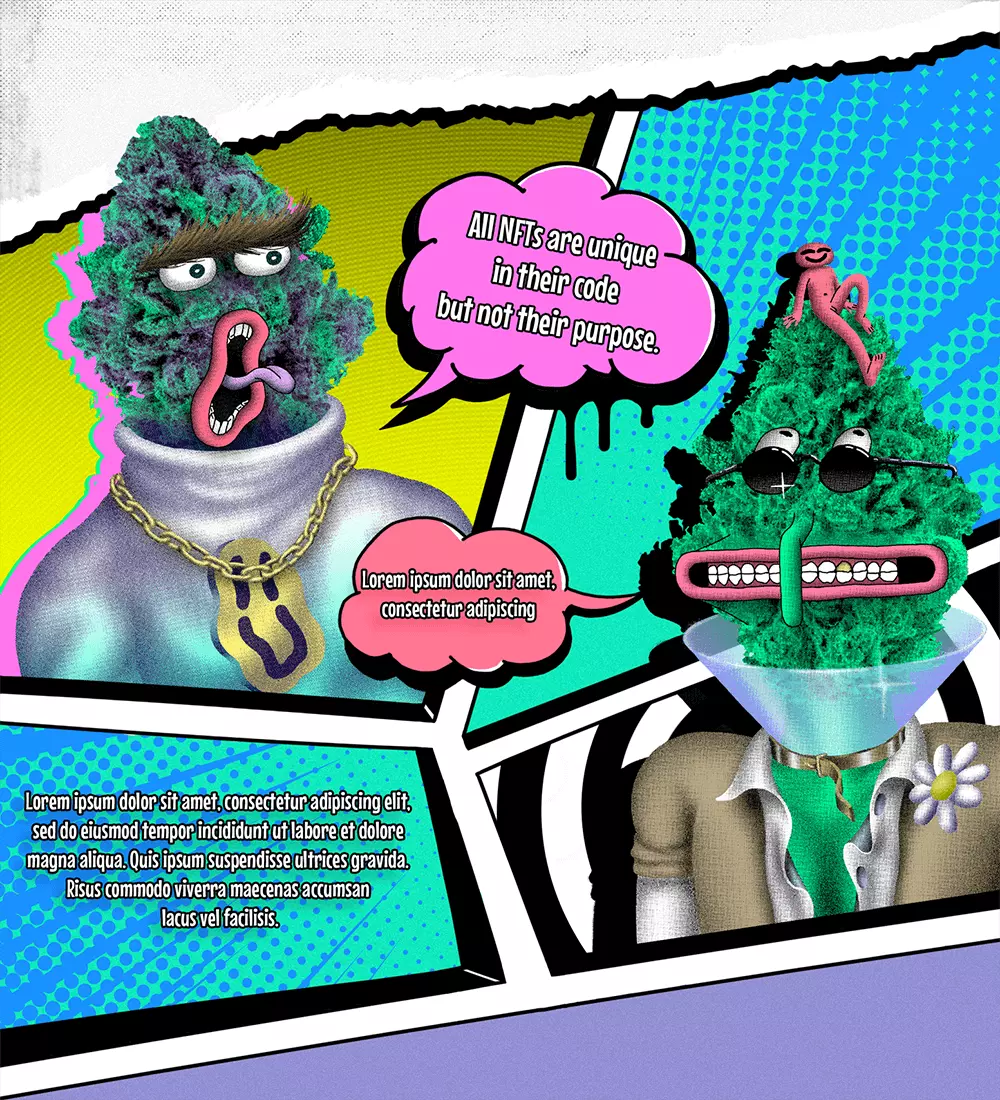
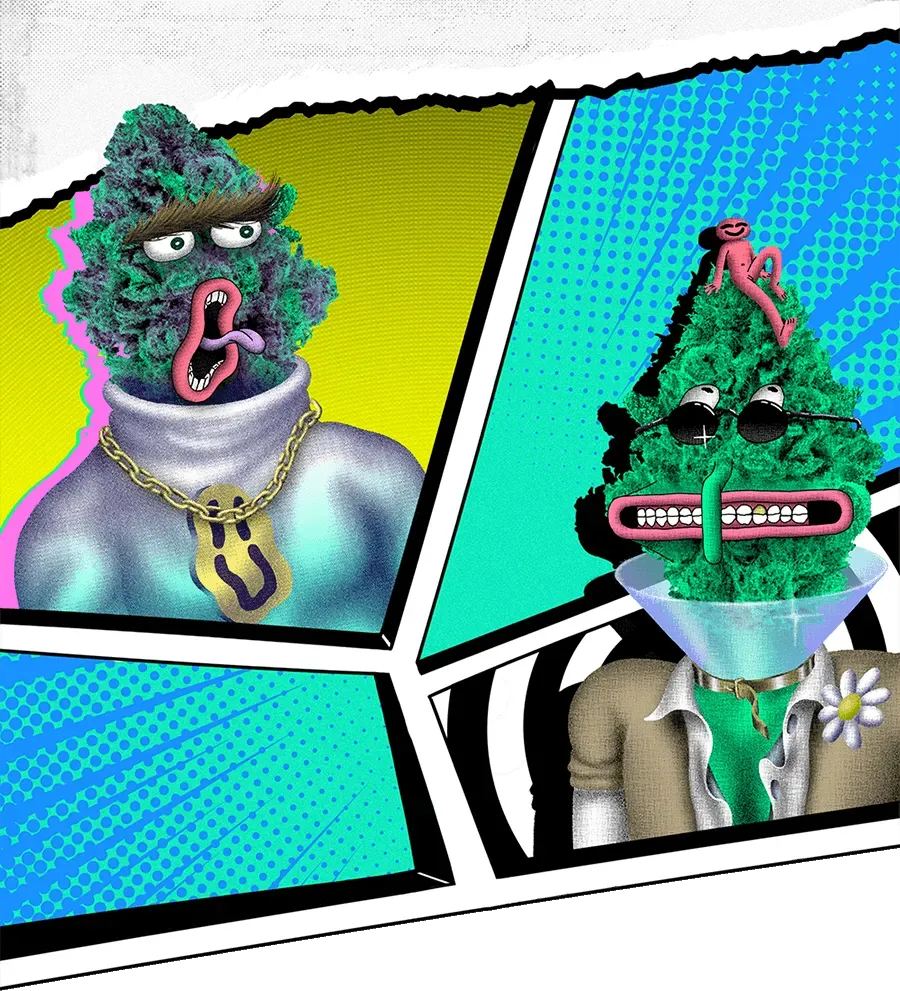
comix

diff --git a/src/components/Comix/ComixSection.jsx b/src/components/Comix/ComixSection.jsx
@@ -1,9 +1,22 @@
 import React from 'react';
 import comix from '../../assets/comix/comix_bg.webp'
+import bubble_top from '../../assets/comix/bubble_top.webp'
+import bubble_bottom from '../../assets/comix/bubble_bottom.webp'
+import comix_text from '../../assets/comix/comix_text.webp'
+
 function ComixSection(props) {
     return (
         <div className={'comix_section'}>
             <img src={comix} alt=""/>
+            <div className={'bubble_top'}>
+                <img src={bubble_top} alt=""/>
+            </div>
+            <div className={'bubble_bottom'}>
+                <img src={bubble_bottom} alt=""/>
+            </div>
+            <div className={'comix_text'}>
+                <img src={comix_text} alt=""/>
+            </div>
         </div>
     );
 }

diff --git a/src/styles/index.css b/src/styles/index.css
@@ -52,6 +52,27 @@
   margin-left: auto;
 }
 
+.comix_section {
+  position: relative;
+}
+.comix_section .bubble_top {
+  position: absolute;
+  width: 35%;
+  top: 15%;
+  left: 38%;
+}
+.comix_section .bubble_bottom {
+  position: absolute;
+  width: 30%;
+  top: 45%;
+  left: 34%;
+}
+.comix_section .comix_text {
+  position: absolute;
+  width: 40%;
+  bottom: 13%;
+}
+
 .canna_slider {
   margin: -17% 0 -15%;
   background-image: url("../assets/slider/slider_bg.webp");

diff --git a/src/styles/comixStyle.scss b/src/styles/comixStyle.scss
@@ -1,3 +1,21 @@
 .comix_section{
+  position: relative;
 
+  .bubble_top{
+    position: absolute;
+    width: 35%;
+    top: 15%;
+    left: 38%;
+  }
+  .bubble_bottom{
+    position: absolute;
+    width: 30%;
+    top: 45%;
+    left: 34%;
+  }
+  .comix_text{
+    position: absolute;
+    width: 40%;
+    bottom: 13%;
+  }
 }
